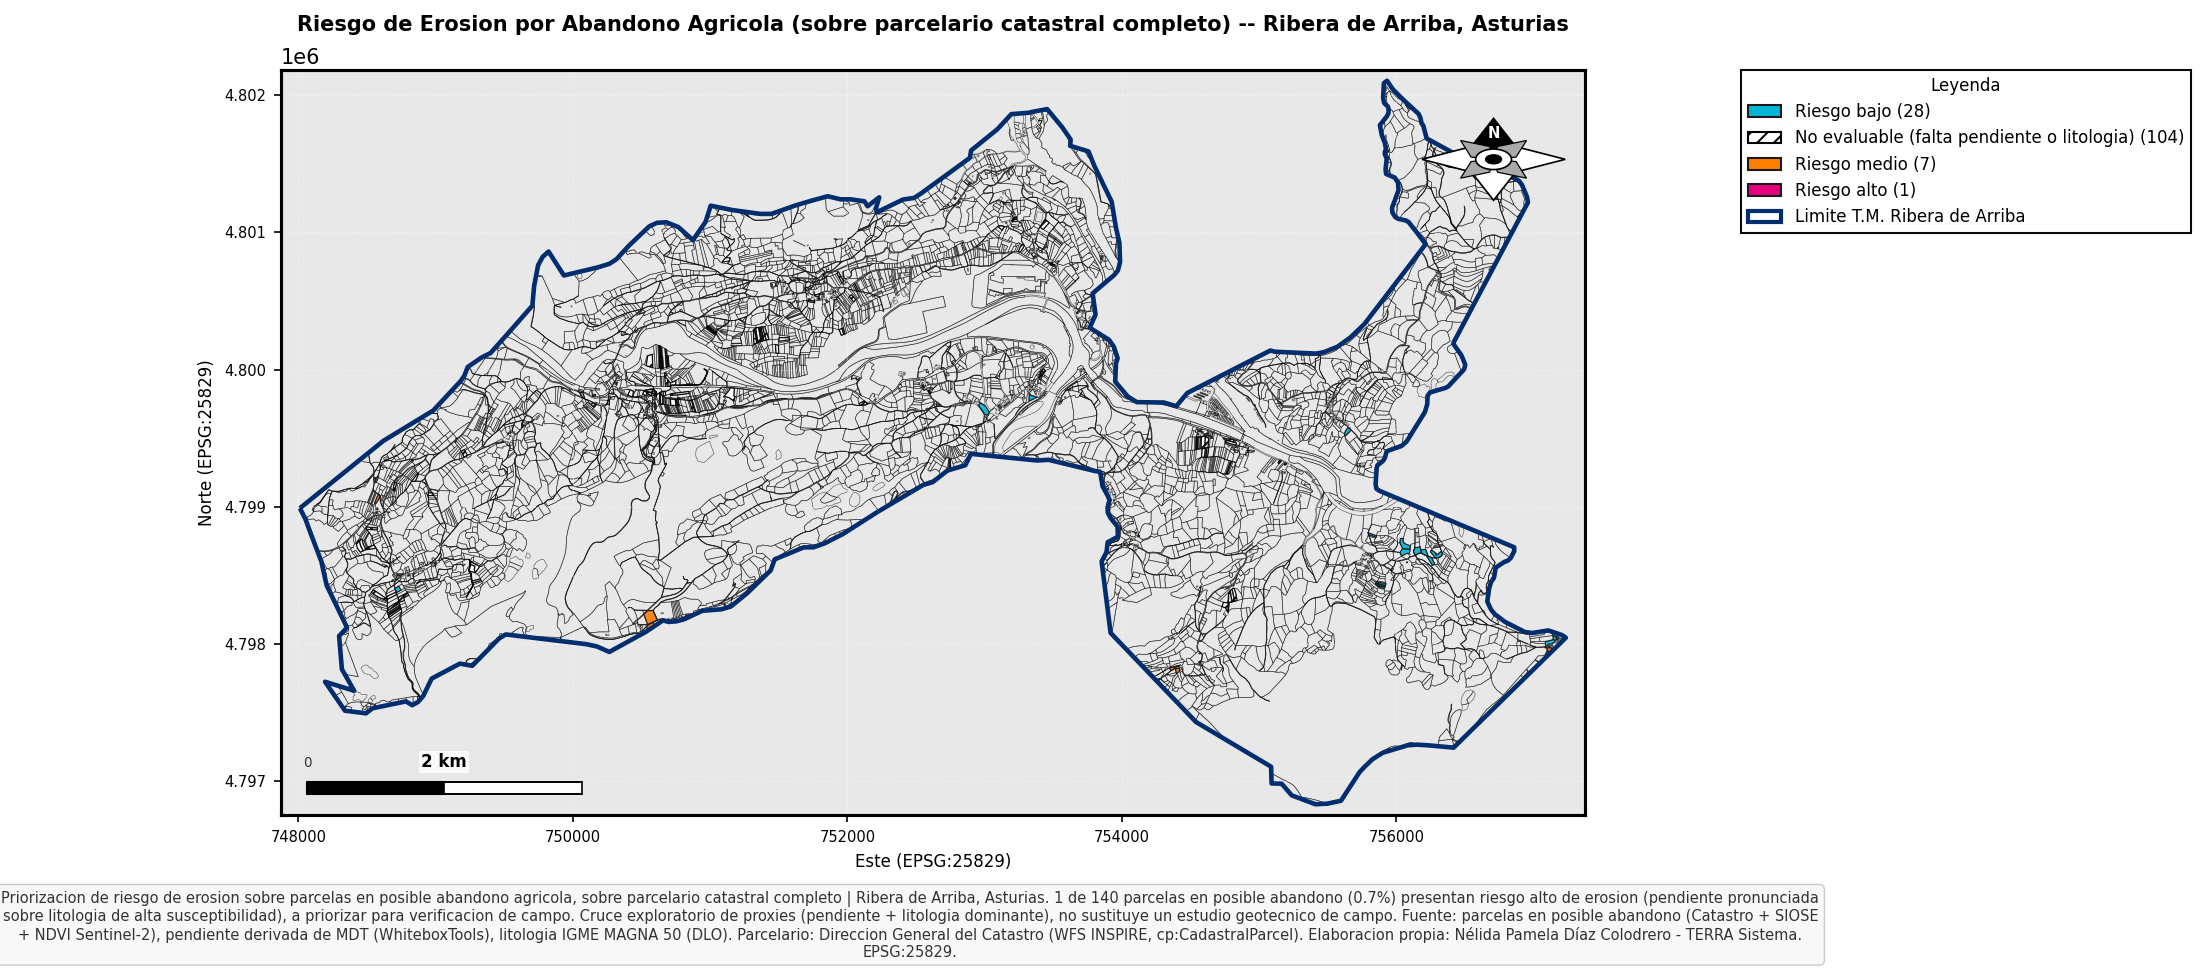
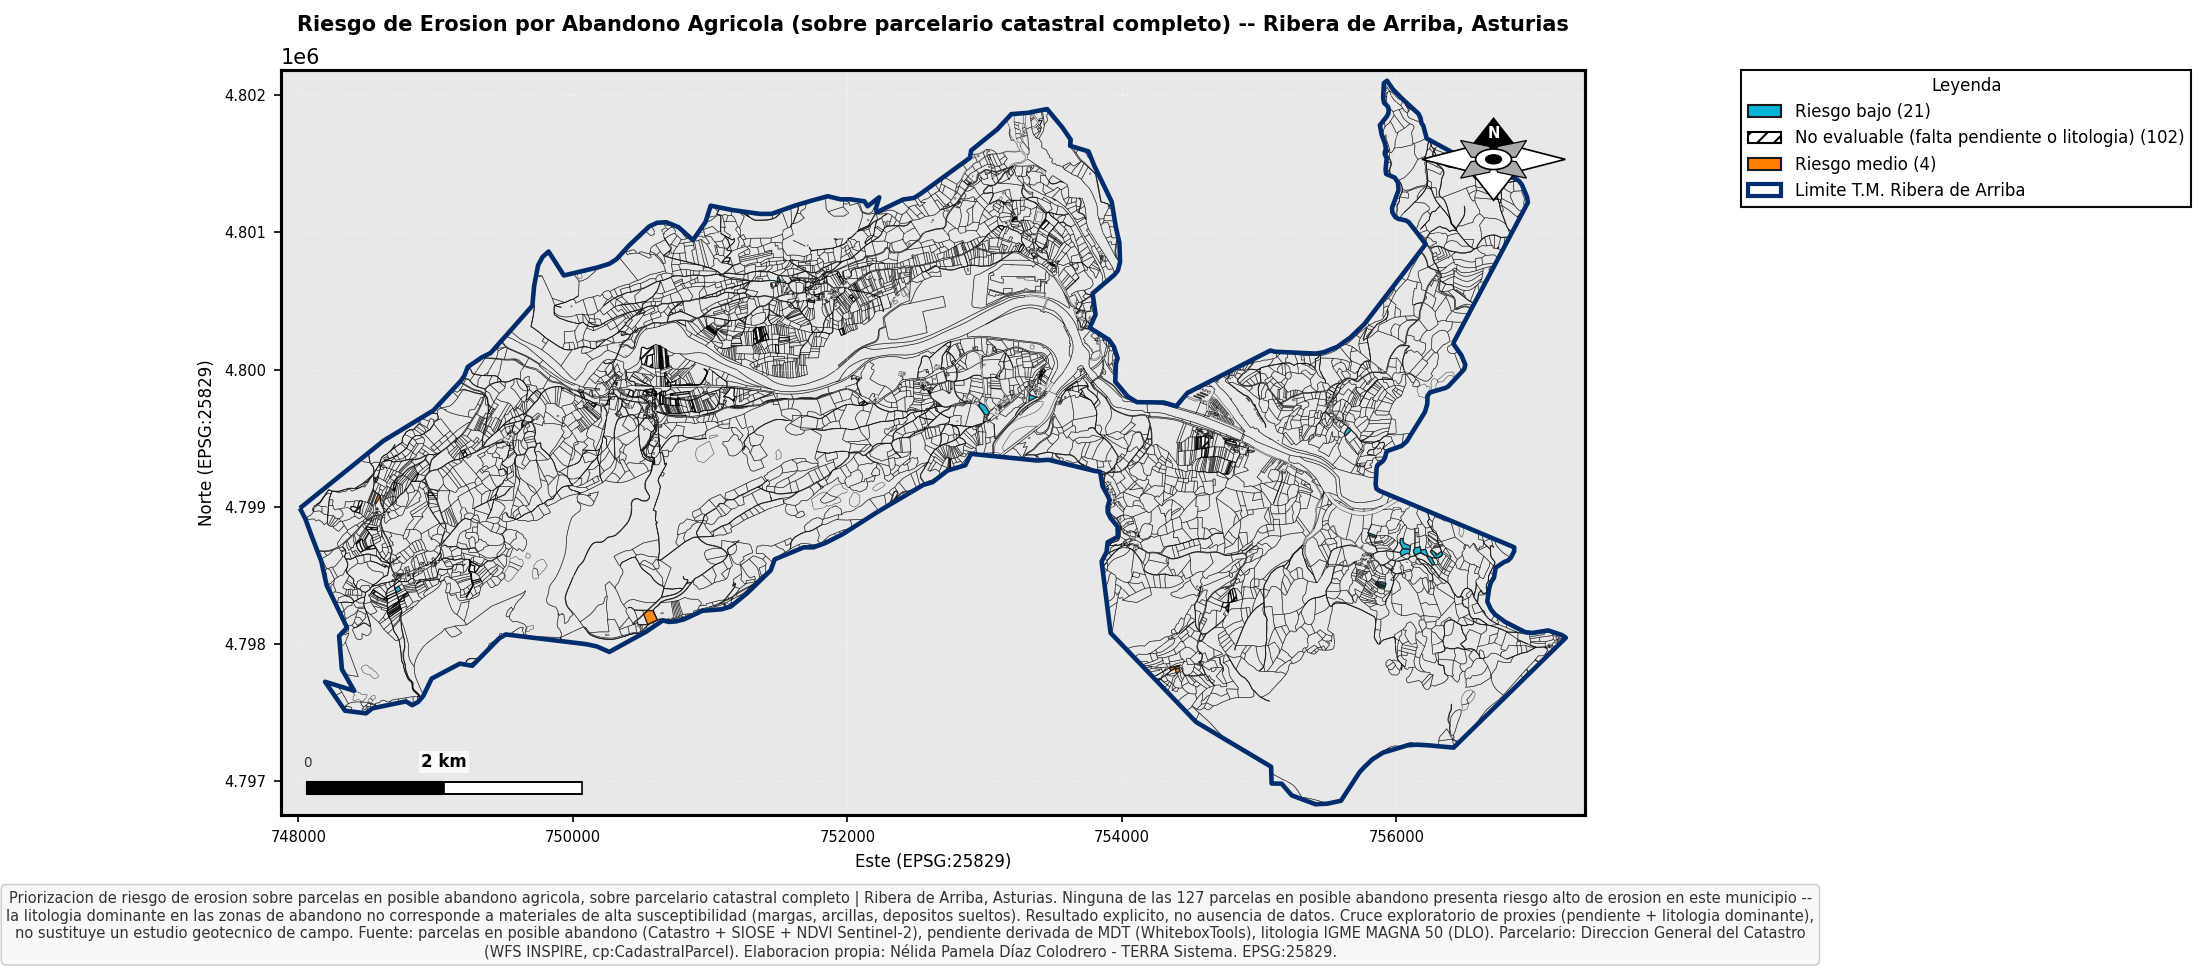
Actualiza 5 mapas con SIOSE AR 2020 y anade seccion de fragmentacion parcelaria

Changed region(s): [[0.0, 0.8923, 0.8327, 0.9846], [0.771, 0.1846, 0.9252, 0.2462], [0.8635, 0.0615, 0.8943, 0.0923]]

diff --git a/index.html b/index.html
@@ -492,25 +492,25 @@
 
     <h3 class="dash-section">Riesgo de erosión y abandono agrícola</h3>
     <div class="chart-box">
-      <p class="chart-titulo">Detección de abandono agrícola por tendencia NDVI multi-anual (2.593 parcelas analizadas)</p>
+      <p class="chart-titulo">Detección de abandono agrícola por tendencia NDVI multi-anual (1.894 parcelas analizadas)</p>
       <div class="dash-cajas-grid">
-        <div class="dash-caja"><span class="dash-caja-swatch" style="background:#3d9970;"></span><span class="dash-caja-label">Activo estable</span><div class="dash-caja-val">2.329</div><div class="dash-caja-sub">89,8% de las parcelas</div></div>
-        <div class="dash-caja"><span class="dash-caja-swatch" style="background:#e6a23c;"></span><span class="dash-caja-label">Posible cambio de uso</span><div class="dash-caja-val">55</div><div class="dash-caja-sub">pasto/prado, no necesariamente abandono</div></div>
-        <div class="dash-caja"><span class="dash-caja-swatch" style="background:#c0504d;"></span><span class="dash-caja-label">Posible abandono</span><div class="dash-caja-val">140 (5,4%)</div><div class="dash-caja-sub">indicio, no confirmado — a verificar en campo</div></div>
-        <div class="dash-caja"><span class="dash-caja-swatch" style="background:#6b7a95;"></span><span class="dash-caja-label">Serie insuficiente</span><div class="dash-caja-val">69</div><div class="dash-caja-sub">sin datos suficientes</div></div>
+        <div class="dash-caja"><span class="dash-caja-swatch" style="background:#3d9970;"></span><span class="dash-caja-label">Activo estable</span><div class="dash-caja-val">1.730</div><div class="dash-caja-sub">91,3% de las parcelas</div></div>
+        <div class="dash-caja"><span class="dash-caja-swatch" style="background:#e6a23c;"></span><span class="dash-caja-label">Posible cambio de uso</span><div class="dash-caja-val">12</div><div class="dash-caja-sub">pasto/prado, no necesariamente abandono</div></div>
+        <div class="dash-caja"><span class="dash-caja-swatch" style="background:#c0504d;"></span><span class="dash-caja-label">Posible abandono</span><div class="dash-caja-val">127 (6,7%)</div><div class="dash-caja-sub">indicio, no confirmado — a verificar en campo</div></div>
+        <div class="dash-caja"><span class="dash-caja-swatch" style="background:#6b7a95;"></span><span class="dash-caja-label">Serie insuficiente</span><div class="dash-caja-val">25</div><div class="dash-caja-sub">sin datos suficientes</div></div>
       </div>
       <img src="mapa_abandono_agricola.png" style="width:100%; border-radius:6px; border:1px solid var(--border); margin-top:14px;" alt="Mapa de detección de abandono agrícola por tendencia NDVI en Ribera de Arriba">
       <div style="text-align:right; margin-top:6px;"><a href="mapa_abandono_agricola.png" download style="color:#e6c07a; font-size:0.85em; text-decoration:none;">⬇ Descargar mapa (PNG)</a></div>
-      <p class="dash-note" style="margin-top:12px;">💡 Las 140 parcelas con indicio de posible abandono (colonización por matorral) son un punto de partida para verificación de campo, no una confirmación. Fuente: Dirección General del Catastro (WFS INSPIRE), SIOSE AR (uso agrícola), Sentinel-2 L2A (ESA/Copernicus, serie 2021-2025).</p>
+      <p class="dash-note" style="margin-top:12px;">💡 Las 127 parcelas con indicio de posible abandono (colonización por matorral) son un punto de partida para verificación de campo, no una confirmación. Fuente: Dirección General del Catastro (WFS INSPIRE), SIOSE AR 2020 (uso agrícola), Sentinel-2 L2A (ESA/Copernicus, serie 2021-2025).</p>
     </div>
 
     <div class="chart-box">
       <p class="chart-titulo">Riesgo de erosión por abandono agrícola (cruce pendiente + litología, sobre las parcelas en posible abandono)</p>
       <div class="dash-cajas-grid">
-        <div class="dash-caja"><span class="dash-caja-swatch" style="background:#4dd0e1;"></span><span class="dash-caja-label">Riesgo bajo</span><div class="dash-caja-val">28</div><div class="dash-caja-sub">parcelas</div></div>
-        <div class="dash-caja"><span class="dash-caja-swatch" style="background:#e67e22;"></span><span class="dash-caja-label">Riesgo medio</span><div class="dash-caja-val">7</div><div class="dash-caja-sub">parcelas</div></div>
-        <div class="dash-caja"><span class="dash-caja-swatch" style="background:#c0316b;"></span><span class="dash-caja-label">Riesgo alto</span><div class="dash-caja-val">1 (0,7%)</div><div class="dash-caja-sub">a priorizar para verificación de campo</div></div>
-        <div class="dash-caja"><span class="dash-caja-swatch" style="background:#6b7a95;"></span><span class="dash-caja-label">No evaluable</span><div class="dash-caja-val">104</div><div class="dash-caja-sub">falta pendiente o litología</div></div>
+        <div class="dash-caja"><span class="dash-caja-swatch" style="background:#4dd0e1;"></span><span class="dash-caja-label">Riesgo bajo</span><div class="dash-caja-val">21</div><div class="dash-caja-sub">parcelas</div></div>
+        <div class="dash-caja"><span class="dash-caja-swatch" style="background:#e67e22;"></span><span class="dash-caja-label">Riesgo medio</span><div class="dash-caja-val">4</div><div class="dash-caja-sub">parcelas</div></div>
+        <div class="dash-caja"><span class="dash-caja-swatch" style="background:#c0316b;"></span><span class="dash-caja-label">Riesgo alto</span><div class="dash-caja-val">0 (0%)</div><div class="dash-caja-sub">ninguna parcela con riesgo alto en este concejo</div></div>
+        <div class="dash-caja"><span class="dash-caja-swatch" style="background:#6b7a95;"></span><span class="dash-caja-label">No evaluable</span><div class="dash-caja-val">102</div><div class="dash-caja-sub">falta pendiente o litología</div></div>
       </div>
       <p class="chart-explica" style="margin-top:14px;">El mismo cruce de riesgo se muestra aquí en tres versiones, para elegir la que mejor ayude a ubicar cada parcela sobre el terreno:</p>
 
@@ -529,6 +529,20 @@
       <p class="dash-note" style="margin-top:14px;">⚠ Es un cruce exploratorio de proxies (pendiente derivada de MDT + litología dominante IGME MAGNA 50), no sustituye un estudio geotécnico de campo. Fuente: parcelas en posible abandono (Catastro + SIOSE + NDVI Sentinel-2), pendiente (WhiteboxTools), litología (IGME), ortofoto PNOA (IGN).</p>
     </div>
 
+    <h3 class="dash-section">Fragmentación parcelaria</h3>
+    <div class="chart-box">
+      <p class="chart-titulo">Fragmentación parcelaria (Catastro) — 6.418 parcelas analizadas, tamaño medio 3.419 m², densidad 2,92 parcelas/ha</p>
+      <div class="dash-cajas-grid">
+        <div class="dash-caja"><span class="dash-caja-swatch" style="background:#8b0000;"></span><span class="dash-caja-label">Muy fragmentada</span><div class="dash-caja-val">46%</div><div class="dash-caja-sub">&lt; 0,1 ha</div></div>
+        <div class="dash-caja"><span class="dash-caja-swatch" style="background:#e6a23c;"></span><span class="dash-caja-label">Fragmentación media</span><div class="dash-caja-val">42%</div><div class="dash-caja-sub">0,1 - 0,5 ha</div></div>
+        <div class="dash-caja"><span class="dash-caja-swatch" style="background:#4f8a5b;"></span><span class="dash-caja-label">Fincas medianas</span><div class="dash-caja-val">11%</div><div class="dash-caja-sub">0,5 - 2 ha</div></div>
+        <div class="dash-caja"><span class="dash-caja-swatch" style="background:#1b4d2e;"></span><span class="dash-caja-label">Fincas grandes/comunales</span><div class="dash-caja-val">2%</div><div class="dash-caja-sub">más de 2 ha</div></div>
+      </div>
+      <img src="mapa_fragmentacion_parcelaria.png" style="width:100%; border-radius:6px; border:1px solid var(--border); margin-top:14px;" alt="Mapa de fragmentación parcelaria (Catastro) de Ribera de Arriba">
+      <div style="text-align:right; margin-top:6px;"><a href="mapa_fragmentacion_parcelaria.png" download style="color:#e6c07a; font-size:0.85em; text-decoration:none;">⬇ Descargar mapa (PNG)</a></div>
+      <p class="dash-note" style="margin-top:12px;">💡 Casi la mitad de las parcelas de Ribera de Arriba (46%) son menores de 0,1 ha — un mosaico muy fragmentado, herencia de siglos de reparto de herencias por división de fincas. Fuente: Dirección General del Catastro (WFS INSPIRE, cp:CadastralParcel).</p>
+    </div>
+
     <h3 class="dash-section">Buscador de vías de financiación</h3>
     <div class="chart-box">
       <p class="chart-titulo">Escribe qué necesitas financiar (ej. "hórreos", "turismo", "empleo", "digitalización", "caminos") — cada línea muestra su propia fecha de verificación</p>
@@ -545,7 +559,7 @@
       <ul style="font-size:13px; color:var(--text-light); line-height:1.8; padding-left:20px; margin:10px 0;">
         <li><b>Resolución de teledetección (NDVI/NBR/NDWI/NDBI):</b> 10×10 m por píxel (Sentinel-2), con una precisión de geolocalización oficial de la ESA de hasta 11 m — un desajuste de 1-2 píxeles contra la ortofoto es normal, no un error de proceso.</li>
         <li><b>Censo INE (vivienda, mercado laboral):</b> dato de 2021. El INE cambió de metodología tras el Censo 2021 — la población se publica ya cada año, y la vivienda cada 3-4 años sin fecha fija — así que puede existir una edición más reciente que la usada aquí.</li>
-        <li><b>SIOSE (uso del suelo):</b> la sección de Medio ambiente ya usa SIOSE AR 2020 (actualizado el 23/09/2026, la edición más reciente disponible para Asturias). Los mapas de abandono agrícola y erosión de otras secciones todavía reflejan la versión de 2016-2017, pendientes de recalcular con el dato nuevo.</li>
+        <li><b>SIOSE (uso del suelo):</b> todo el visor usa ya SIOSE AR 2020 (actualizado el 23/09/2026, la edición más reciente disponible para Asturias) — abandono agrícola, erosión, medio ambiente y fragmentación parcelaria comparten el mismo dato.</li>
         <li><b>RPGUR:</b> es una herramienta de consulta cartográfica del Principado, no sustituye al documento legal vigente (las Normas Subsidiarias del concejo y sus modificaciones posteriores, que pueden no estar todas digitalizadas).</li>
         <li><b>NBR (riesgo de quema):</b> detecta un patrón espectral compatible con suelo quemado, no distingue la causa — una quema agrícola controlada y un incendio forestal pueden dar una señal parecida; hay que confirmar en campo.</li>
         <li><b>Calendario de convocatorias de financiación:</b> las "ventanas habituales" se basan en el histórico de 1-2 convocatorias investigadas a mano, no en un análisis estadístico de muchos años — son una orientación, no una garantía de que se repita el mismo patrón.</li>
